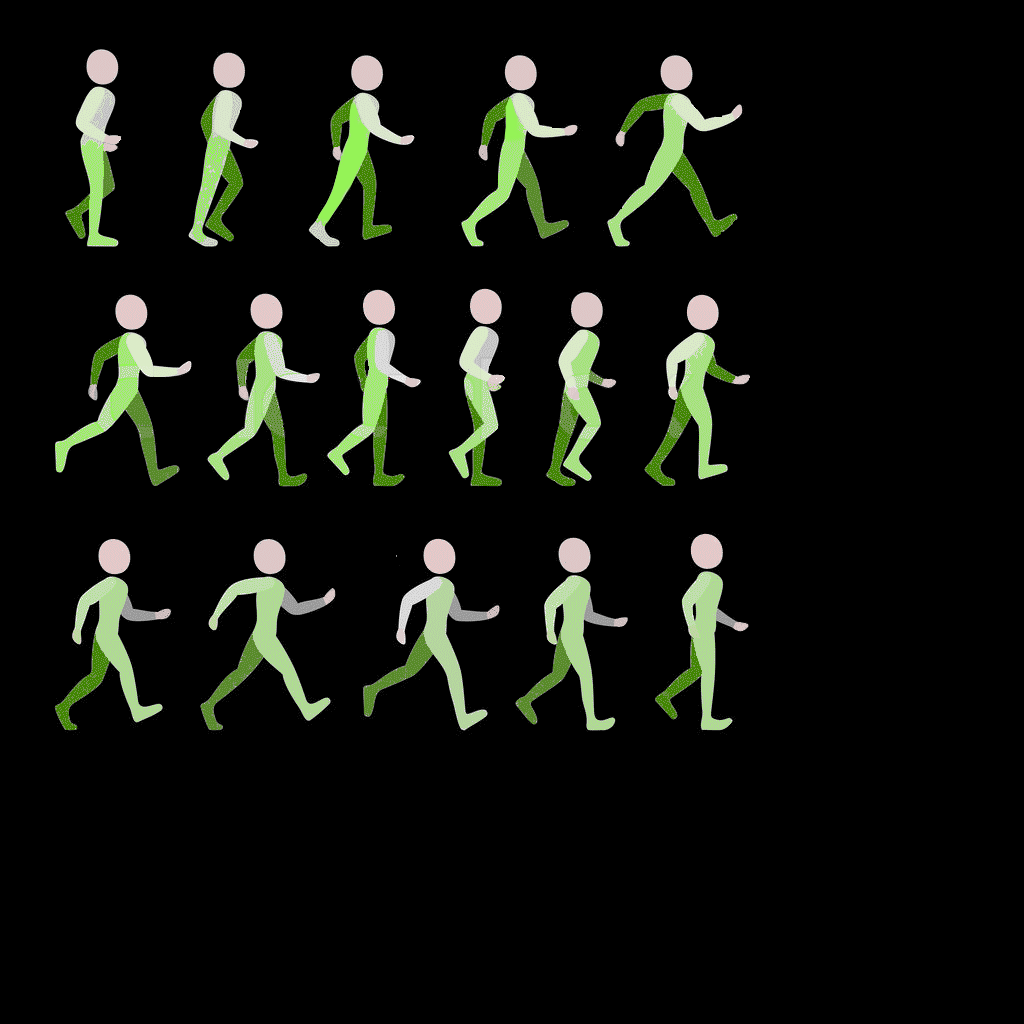
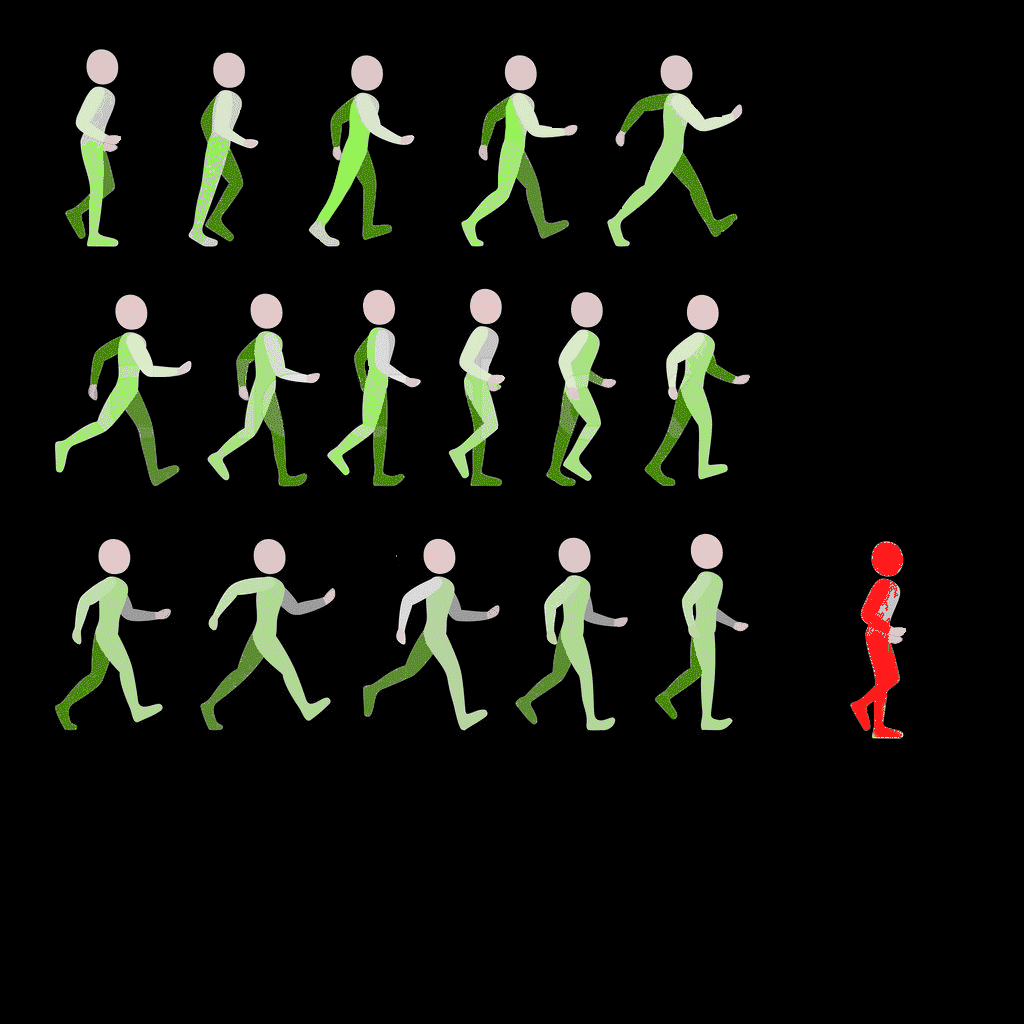
ladder

Changed region(s): [[0.8125, 0.5312, 0.9062, 0.7188]]

diff --git a/jni/game/runnerdraw.cpp b/jni/game/runnerdraw.cpp
@@ -24,7 +24,7 @@
 
  */
 
-static float rCoords[16][2] = {
+static float rCoords[17][2] = {
     {101, 246},
     {228,246},
     {366,246},
@@ -42,7 +42,8 @@ static float rCoords[16][2] = {
     {268, 729}, //              209-335
     {438, 729}, //
     {573, 729},
-    {706, 729}
+    {706, 729},
+    {886, 738} //dead
 };
 static float rw = 128;
 static float rh = 200;
@@ -66,16 +67,26 @@ void RunnerDraw::draw(float _x, float _y, float _scale)
         offset = 0;
     else
     {
+//        if (runner->alive)
+//        {
+//            offset = (void*) (runner->phase() * 24*4);
+//        }
+//        else
+//        {
+//            offset =  (void*) (32 * 24 * 4);
+//        }
+
         if (runner->alive)
         {
-            texture = view->textures[Texture::WALKING_RUNNER];
             offset = (void*) (runner->phase() * 24*4);
+            _colorMult = Point4D(1,1,1);
         }
         else
         {
-            texture = view->textures[Texture::DEAD_RUNNER];
-            offset = 0;
+            offset =  0;
+            _colorMult = Point4D(0,0.5,0.5);
         }
+
     }
     drawTexture();
 
@@ -83,13 +94,14 @@ void RunnerDraw::draw(float _x, float _y, float _scale)
 
 void RunnerDraw::initGL()
 {
-    Point4D* vertices4 = new Point4D[6*(16 + 16)];
+    Point4D* vertices4 = new Point4D[6*(16 + 16 + 1)];
     for (int i =0; i<16; i++)
         getVert(i, &vertices4[6*i], false);
     for (int i =0; i<16; i++)
         getVert(i, &vertices4[6*i + 96], true);
+    getVert(16, &vertices4[6*32], false);
     glBindBuffer(GL_ARRAY_BUFFER, vboIds[0]);
-    glBufferData(GL_ARRAY_BUFFER, 6*32 * sizeof(Point4D), vertices4, GL_STATIC_DRAW);
+    glBufferData(GL_ARRAY_BUFFER, 6*33 * sizeof(Point4D), vertices4, GL_STATIC_DRAW);
     delete[] vertices4;
 }
 

diff --git a/jni/game/ladder.cpp b/jni/game/ladder.cpp
@@ -1,0 +1,55 @@
+#include "ladder.h"
+#include "play.h"
+#include "math_helper.h"
+Ladder::Ladder(View* _view, Play* _field) : DrawingObject (_view, 1, 0), field (_field)
+{
+    nvertices = 6;
+    vertices = new Point[nvertices];
+    vertices[0] = Point(-0.1, -1.0);
+    vertices[1] = Point(-0.1, 1.0);
+    vertices[2] = Point(0.1, -1.0);
+    vertices[3] = Point(0.1, 1.0);
+    vertices[4] = Point(-0.1, 0.0);
+    vertices[5] = Point(0.1, 0.0);
+    initGL();
+}
+
+void Ladder::setCoords(float _x1, float _y1, float _x2, float _y2, float __angle)
+{
+    x1 = _x1;
+    y1 = _y1 - 0.5;
+    x2 = _x2;
+    y2 = _y2 - 0.5;
+    if ( x2 > x1)
+        x2 = x2 - 0.5;
+    else if (x1 > x2)
+        x2 = x2 + 0.5;
+    angle = atan2(x2-x1, y2-y1);
+   // angle = __angle;
+//    float sc = field->scale;
+    float len = dist(x1, y1, x2, y2);
+    nl = len * 6;
+}
+
+void Ladder::draw()
+{
+    float sc = field->scale;
+    float r = 2.0/12;
+    float dx = r * sin(angle);
+    float dy = r * cos(angle);
+    this->setScale(1.0/12 * sc);
+    for (int i =0; i <nl; i++)
+    {
+        float xx = 1.0 * x1 + i * dx;
+        float yy = 1.0 * y1 + i * dy;
+        field->fieldToScreen(xx, yy, &x, &y);
+        drawLines(GL_LINES, vboIds[0], nvertices, COLOR_BLUE,1.0, -angle );
+    }
+}
+
+void Ladder::initGL()
+{
+    glBindBuffer(GL_ARRAY_BUFFER, vboIds[0]);
+    glBufferData(GL_ARRAY_BUFFER, nvertices * sizeof(Point), vertices, GL_STATIC_DRAW);
+
+}

diff --git a/jni/game/play.cpp b/jni/game/play.cpp
@@ -10,7 +10,7 @@
 #include "rectangle.h"
 #include "block.h"
 
-Play::Play(View *_view) : Field(_view)
+Play::Play(View *_view) : Field(_view), ladder(_view, this)
 {
    // playing = true;
     fillTools();
@@ -162,6 +162,8 @@ void Play::drawMoveables()
     float xx, yy;
     fieldToScreen(runner->x, runner->y, &xx, &yy);
     //cellDraw.draw(runner, xx, yy, cellWidth*scale);
+    if (runner->climbing)
+        ladder.draw();
     runnerDraw.draw(xx, yy, cellWidth*scale);
     std::list<Bomb*>::iterator bit = bombs.begin();
     for (; bit != bombs.end(); bit++)
@@ -265,7 +267,7 @@ void Play::adjustScreenPosition()
 
 void Play::drawToolbar()
 {
-    rect()->draw(toolbarLeft, toolbarBottom, toolbarRight, toolbarTop, COLOR_LIGHTGRAY);
+    rect()->draw(toolbarLeft, toolbarBottom, toolbarRight, toolbarTop, Point4D(0.75, 0.75, 0.75, 0.3));
     Field::drawToolbar();
     if (nRunnerBombs >0)
     {
@@ -280,6 +282,7 @@ void Play::drawToolbar()
 void Play::fillTools()
 {
     tools.push_back(new ToolButton(Texture::RESTART));
+    tools.push_back(new ToolButton(Texture::EMPTY));
     tools.push_back(new ToolButton(Texture::ZOOM_IN));
     tools.push_back(new ToolButton(Texture::ZOOM_OUT));
 

diff --git a/jni/game/drawingobject.cpp b/jni/game/drawingobject.cpp
@@ -126,6 +126,9 @@ void DrawingObject::drawLines(int how, uint vbo, int npoints, const Point4D& _co
     _matrix1 = view->projection1 * _matrix1;
     //	glUseProgram(view->flyingprogram().programId());
         glUseProgram(view->program);
+   if (angle !=0.0f)
+            _matrix1.rotateZ(angle * 180 / M_PI);
+
     if (_scale<0.99 ||_scale>1.1)
     {
         Mat4 scaleMatrix(_scale);
@@ -194,7 +197,7 @@ void DrawingObject::drawTexture(float angle)
     err = glGetError();
     if (err)
         LOGD("err=%d", err);
-   // _colorMult.alpha = 0.5;
+//    _colorMult.alpha = 0.5;
     glUniform4fv(texture->colorMultLocation(), 1,
                        (const GLfloat*) &_colorMult);
     err = glGetError();

diff --git a/jni/game/texture.cpp b/jni/game/texture.cpp
@@ -27,8 +27,8 @@ static const char fragmentShader[] =
         "void main()                                         \n"
         "{                                                   \n"
         "  vec4 col = texture2D( s_texture, v_texCoord );\n"
-        "  vec4 col1 = vec4(2.0, 0.5, 0.5, 1.0) ;                 \n"
-        "  for(int i=0; i<3; i++)                           \n"
+        "  vec4 col1 = vec4(2.0, 0.5, 0.5, 0.3) ;                 \n"
+        "  for(int i=0; i<4; i++)                           \n"
         "       col[i] = (col[i]*s_colormult[i]);             \n"
         "  //  col[0] = (col[0]+col1[0])/2.0;                \n"
         "  //col[1] = (col[1]+col1[1])/2.0;                \n"

diff --git a/jni/game/runner.cpp b/jni/game/runner.cpp
@@ -4,6 +4,7 @@
 #include "play.h"
 #include "block.h"
 #include "logmsg.h"
+#include "ladder.h"
 Runner::Runner(Play* _field) : MovingObject(_field, Texture::RUNNER),
     climbing(false), alive(true), phaseLength(40), lastLeft(false)
 {
@@ -19,6 +20,7 @@ void Runner::climb(int _x, int _y)
     vy = v * cos(fi);
     climbing = true;
     lastLeft = vx<0;
+    field->ladder.setCoords(x, y, climbX, climbY, fi);
 }
 
 void Runner::checkClimb()

diff --git a/jni/game/field.cpp b/jni/game/field.cpp
@@ -186,7 +186,7 @@ void Field::drawToolbar()
     checkToolButtonSwitch();
    for (int i=0; i< tools.size(); i++)
    {
-       if (currTool == tools[i]->kind)
+       if (currTool == tools[i]->kind && currTool != Texture::EMPTY)
             rect()->draw(tools[i]->left(), tools[i]->bottom(), tools[i]->right(), tools[i]->top(), COLOR_BLUE);
        cellDraw.draw(tools[i]->kind,  tools[i]->x, tools[i]->y, 1.0/16);
 

diff --git a/jni/game/ladder.h b/jni/game/ladder.h
@@ -1,0 +1,19 @@
+#ifndef LADDER_H
+#define LADDER_H
+#include "drawingobject.h"
+class Play;
+
+class Ladder : public DrawingObject
+{
+public:
+    Ladder(View* _view, Play* _field);
+    void setCoords (float _x1, float _y1, float _x2,  float _y2, float __angle);
+    void draw();
+    void initGL();
+    float x1, y1, x2, y2;
+    int nl;
+    Play* field;
+    float angle;
+};
+
+#endif // LADDER_H

diff --git a/jni/game/play.h b/jni/game/play.h
@@ -1,9 +1,11 @@
 #ifndef PLAY_H
 #define PLAY_H
 #include "field.h"
+#include "ladder.h"
 class Bomb;
 class Explosion;
 class Block;
+
 class Play : public Field
 {
 public:
@@ -56,6 +58,7 @@ public:
     std::list<Block*> blocks;
     bool canMoveTo(int x, int y) const;
     Block* blockOfXY(int x, int y) const;
+    Ladder ladder;
  };
 
 #endif // PLAY_H

diff --git a/jni/game/rectangle.cpp b/jni/game/rectangle.cpp
@@ -43,6 +43,7 @@ void ARectangle::initGL()
 void ARectangle::draw(float x1, float y1, float x2, float y2, const Point4D &color)
 {
     setParams(x1, y1, x2, y2, color);
+//    _color.alpha = 0.3;
     drawTriangles (vboIds[1]);
 }
 
